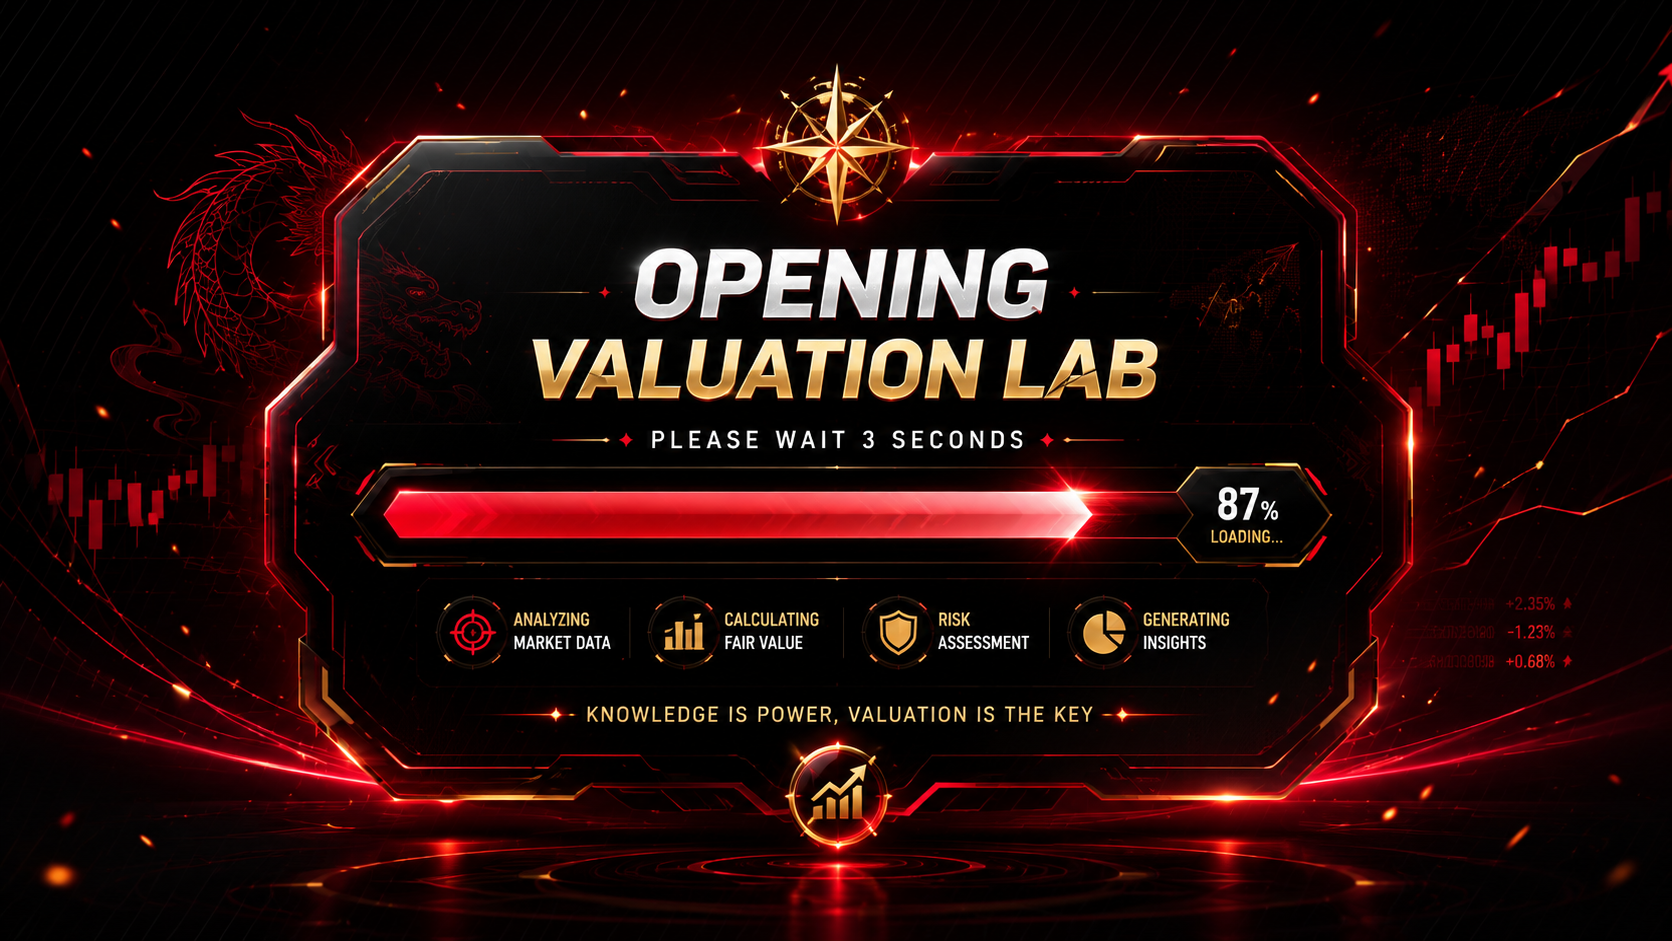
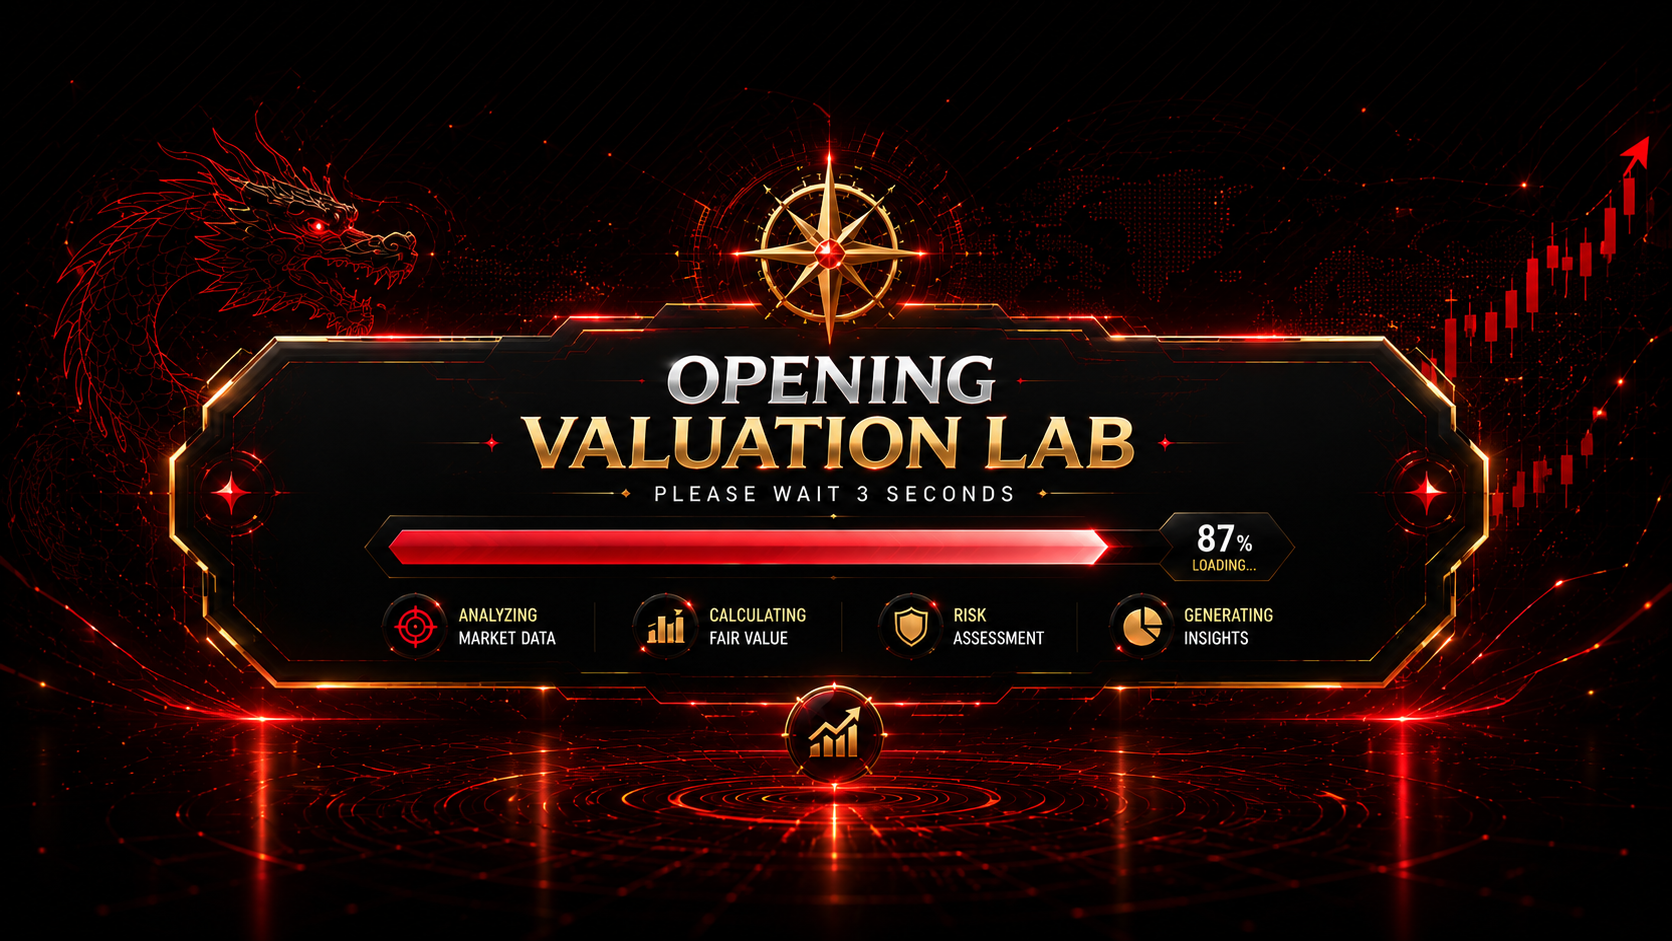
Match valuation loader artwork

diff --git a/valuation.html b/valuation.html
@@ -8,6 +8,7 @@
 <link rel="apple-touch-icon" sizes="180x180" href="assets/icons/apple-touch-icon.png">
 <link rel="manifest" href="site.webmanifest">
 <meta name="theme-color" content="#0b0504">
+<link rel="preload" as="image" href="assets/valuation-loading-lab.png?v=3">
 <link rel="preconnect" href="https://fonts.googleapis.com">
 <link rel="preconnect" href="https://fonts.gstatic.com" crossorigin>
 <link href="https://fonts.googleapis.com/css2?family=Bangers&family=Barlow+Condensed:ital,wght@0,500;0,700;0,800;1,700;1,800&family=IBM+Plex+Sans+Thai:wght@400;500;600;700;800&family=JetBrains+Mono:wght@500;700;800&display=swap" rel="stylesheet">
@@ -57,28 +58,47 @@ body::before {
   mix-blend-mode: screen;
   opacity: .25;
 }
-/* .valuation-loader {
+.valuation-loader {
   position: fixed;
   inset: 0;
   z-index: 9999;
-  display: grid;
-  place-items: center;
+  overflow: hidden;
   background:
-    linear-gradient(90deg, rgba(0,0,0,.25), transparent 45%, rgba(0,0,0,.25)),
-    url("assets/valuation-loading-lab.png") center / cover no-repeat,
+    radial-gradient(circle at 50% 50%, rgba(96,0,8,.22), transparent 48%),
     #050101;
   opacity: 1;
   visibility: visible;
   transition: opacity .7s ease, visibility .7s ease;
 }
+.valuation-loader-img {
+  position: absolute;
+  inset: 0;
+  width: 100%;
+  height: 100%;
+  display: block;
+  object-fit: cover;
+  object-position: center;
+  filter: saturate(1.08) contrast(1.04);
+}
+.valuation-loader::before,
 .valuation-loader::after {
   content: "";
   position: absolute;
   inset: 0;
   pointer-events: none;
+}
+.valuation-loader::before {
+  z-index: 1;
   background:
-    radial-gradient(circle at 50% 48%, transparent 34%, rgba(0,0,0,.34) 76%),
-    linear-gradient(180deg, rgba(0,0,0,.08), rgba(0,0,0,.34));
+    linear-gradient(90deg, rgba(0,0,0,.18), transparent 42%, rgba(0,0,0,.18)),
+    radial-gradient(circle at 50% 47%, transparent 36%, rgba(0,0,0,.26) 84%);
+}
+.valuation-loader::after {
+  z-index: 2;
+  background:
+    repeating-linear-gradient(0deg, rgba(255,255,255,.025) 0 1px, transparent 1px 4px);
+  mix-blend-mode: screen;
+  opacity: .18;
 }
 .valuation-loader.is-done {
   opacity: 0;
@@ -92,7 +112,7 @@ body::before {
   overflow: hidden;
   clip: rect(0, 0, 0, 0);
   white-space: nowrap;
-} */
+}
 button, input, select { font: inherit; }
 button { cursor: pointer; }
 a { color: inherit; text-decoration: none; }
@@ -665,7 +685,8 @@ input:focus, select:focus {
 </head>
 <body class="loading-valuation">
 <div class="valuation-loader" id="valuationLoader" role="status" aria-live="polite">
-  <!-- <div class="loader-sr">Opening Valuation Lab. Please wait 3 seconds.</div> -->
+  <img class="valuation-loader-img" src="assets/valuation-loading-lab.png?v=3" alt="" decoding="async" fetchpriority="high">
+  <div class="loader-sr">Opening Valuation Lab. Please wait 3 seconds.</div>
 </div>
 <main class="app">
   <header class="topbar">
@@ -679,7 +700,7 @@ input:focus, select:focus {
       <button type="button">คริปโต</button>
       <button type="button">ปันผล</button>
       <button type="button">สแกนหุ้น</button>
-   <button type="button" onclick="location.href='./dashboard-design.html'">ออก</button>
+      <button type="button">ข่าวสาร</button>
     </nav>
     <div class="clock" id="clock">--:--:--</div>
   </header>
